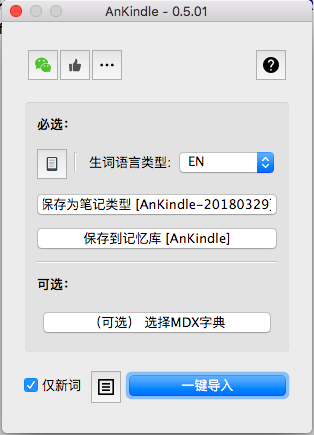
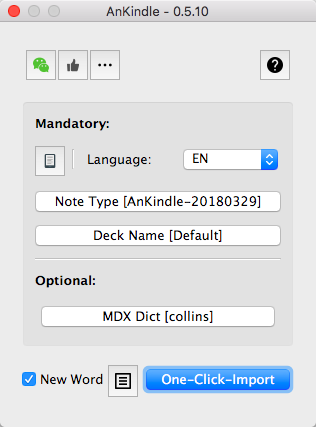
update English trans

diff --git a/AnKindle/lang.py b/AnKindle/lang.py
@@ -15,21 +15,21 @@ _style = u"""
 
 trans = {
     'ANKINDLE': {'zh_CN': u'AnKindle', 'en': u'AnKindle'},
-    'NOTE TYPE': {'zh_CN': u'保存为笔记类型', 'en': u'Save as Note'},
-    'DECK TYPE': {'zh_CN': u'保存到记忆库', 'en': u'Save to Deck'},
-    'MDX TYPE': {'zh_CN': u'查询MDX字典', 'en': u'Query Dict'},
-    'SELECT MODEL': {'zh_CN': u'保存为笔记类型', 'en': u'Save as Note'},
-    'SELECT DECK': {'zh_CN': u'保存到记忆库', 'en': u'Save to deck'},
+    'NOTE TYPE': {'zh_CN': u'保存为笔记类型', 'en': u'Note Type'},
+    'DECK TYPE': {'zh_CN': u'保存到记忆库', 'en': u'Deck Name'},
+    'MDX TYPE': {'zh_CN': u'查询MDX字典', 'en': u'MDX Dict'},
+    'SELECT MODEL': {'zh_CN': u'保存为笔记类型', 'en': u'Choose Note Type'},
+    'SELECT DECK': {'zh_CN': u'保存到记忆库', 'en': u'Choose Deck'},
     'SELECT MDX': {'zh_CN': u'（可选） 选择MDX字典', 'en': u'(Optional) MDX Dict'},
     'CREATED AND DUPLICATES': {'zh_CN': u'新建：%s 张卡片。\n重复：%s 张卡片。',
                                'en': u'Created: %s cards.\nDuplicates: %s cards.'},
     'NONE': {'zh_CN': u'无', 'en': u'None'},
-    'CANNOT FIND KINDLE VOLUME': {'zh_CN': u'** 无法找到 Kindle 数据库 **', 'en': u'** Cannot Find Kindle Db **'},
+    'CANNOT FIND KINDLE VOLUME': {'zh_CN': u'** 无法找到 Kindle 数据库 **', 'en': u'** Missing Kindle DB **'},
     'USING DB': {'zh_CN': u'读取%s', 'en': u'Reading %s'},
     'HELP': {'zh_CN': u'帮助', 'en': u'Help'},
     'IMPORT': {'zh_CN': u'导入设置', 'en': u'Import Config'},
-    'SELECT KINDLE DB': {'zh_CN': u'重新选择Kindle数据库文件', 'en': u'Re-select Kindle Database File'},
-    'ONLY NEW WORDS': {'zh_CN': u'仅新词', 'en': u'Only New'},
+    'SELECT KINDLE DB': {'zh_CN': u'重新选择Kindle数据库文件', 'en': u'Re-select Kindle database file'},
+    'ONLY NEW WORDS': {'zh_CN': u'仅新词', 'en': u'New Word'},
     'ONE CLICK IMPORT': {'zh_CN': u'一键导入', 'en': u'One-Click-Import'},
     'GET KINDLE DB': {'zh_CN': u'请手动选择Kindle数据库，。', 'en': u'Please select Kindle vocab database.'},
     'IMPORTING': {'zh_CN': u'正在导入生词', 'en': u'Importing'},
@@ -40,7 +40,7 @@ trans = {
                                     u'explanations will be lost in your imports. Confirm to continue?'},
     'OPTIONAL': {'zh_CN': u'<b>可选：</b>', 'en': u'<b>Optional:</b>'},
     'USE LATEST TEMPLATE': {'zh_CN': u'默认配套模板', 'en': u'Default Card Template'},
-    'LANGUAGE': {'zh_CN': u'生词语言类型:', 'en': u'Word Language: '},
+    'LANGUAGE': {'zh_CN': u'生词语言类型:', 'en': u'Language: '},
     'MORE_DOC': {'zh_CN': u'更多模板与教程', 'en': u'More Templates & Documentation'},
     'MATURE': {'zh_CN': u'已掌握', 'en': u'Mature'},
     'NEW WORDS': {'zh_CN': u'新词', 'en': u'New'},
@@ -53,7 +53,7 @@ trans = {
     'MDX TYPE ERROR': {'zh_CN': u'无法读取MDX词典内容，请更换词典文件。', 'en': u'Type error when loading MDX, please switch '
                                                                u'another MDX file.'},
     "ENSURE USB": {'zh_CN': u'请确保Kindle已经接入电脑。',
-                   'en': u'Please ensure Kindle has been adtapted to your machine.'},
+                   'en': u'Please ensure Kindle has been adapted to your machine.'},
     "USER DEFINED TEMPLATE ALERT": {'zh_CN': u"""
     <p>您当前没有使用任何AnKindle的模板，<b>插件将自动使用默认模板</b>。</p>
     <p>关于如何制作和使用自定义用于的AnKindle的模板，请参考【帮助】文档或者【知乎】搜索AnKindle。</p>

diff --git a/AnKindle/gui.py b/AnKindle/gui.py
@@ -9,9 +9,9 @@ from functools import partial
 from operator import itemgetter
 
 import anki
-from anki import notes, lang
+from anki import notes
 from anki.lang import currentLang
-from aqt import QAbstractTableModel, Qt, QModelIndex, QAbstractItemView
+from aqt import QAbstractTableModel, Qt, QAbstractItemView
 from aqt import QDialog, QVBoxLayout, QFrame, \
     QPushButton, QSpacerItem, QLabel, QHBoxLayout, QSizePolicy, QGroupBox, QComboBox, QCheckBox, QTabWidget, QTableView, \
     QIcon
@@ -20,6 +20,7 @@ from aqt.importing import importFile
 from aqt.progress import ProgressManager
 from aqt.studydeck import StudyDeck
 from aqt.utils import showInfo, getFile, showText, openLink, askUser
+
 from .config import Config
 from .const import ADDON_CD, __version__, ONLINE_DOC_URL, DEFAULT_TEMPLATE
 from .db import KindleDB
@@ -178,7 +179,7 @@ class Window(QDialog):
         self.l.addWidget(frm_widgets)
         self.l.addWidget(self.grp)
         l_import = QHBoxLayout()
-        self.ck_import_new.setFixedWidth(70)
+        # self.ck_import_new.setFixedWidth(70)
         self.btn_preview_words.setFixedWidth(30)
         l_import.addWidget(self.ck_import_new)
         l_import.addWidget(self.btn_preview_words)
